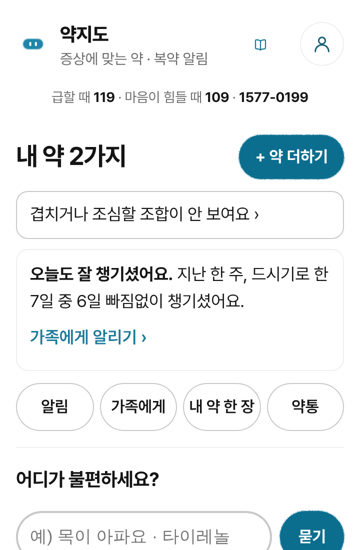
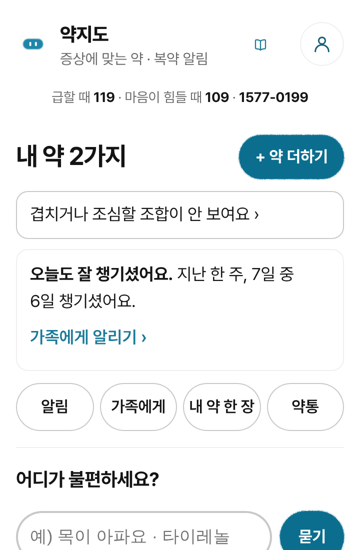
약지도 「내 약」 마음 줄 말 고침(「빠짐없이」는 다 챙긴 주만 · 그 밖엔 「7일 중 6일 챙기셨어요」) · 간단히 보기 카드: 큰 글씨·내 약을 쉬운 갈래 이름과(해열진통제·위산·속쓰림약)·단추 둘씩 크게
Claude-Session: https://claude.ai/code/session_01EnA5kC7cG7NGAyuaz7gY2Z

Changed region(s): [[0.0611, 0.5255, 0.6722, 0.5873], [0.7028, 0.4636, 0.9167, 0.5255]]

diff --git a/docs/yakjido/srv.js b/docs/yakjido/srv.js
@@ -3650,12 +3650,14 @@ window.언어칸 = function () {
     try {
       var tk = takenSet(), rows = []; items.forEach(function (d) { schedOf(d.id, d).forEach(function (t) { rows.push(d.id + '@' + t); }); });
       var 다 = rows.length && rows.every(function (k) { return tk.indexOf(k) >= 0 || isSkipped(k); });
-      var w = adherence(7), 주 = w && w.days >= 2 ? '지난 한 주, 드시기로 한 ' + w.days + '일 중 ' + w.full + '일 빠짐없이 챙기셨어요.' : '';
+      var w = adherence(7), 주 = w && w.days >= 2 ? (w.full === w.days ? '지난 한 주, 드시기로 한 ' + w.days + '일을 빠짐없이 챙기셨어요.' : '지난 한 주, ' + w.days + '일 중 ' + w.full + '일 챙기셨어요.') : '';   /* 11-17 Main — 「빠짐없이」는 전부일 때만 */
       if (다) 마음 = '<div class="job-heart"><p><b>오늘도 잘 챙기셨어요.</b>' + (주 ? ' ' + 주 : '') + '</p><button type="button" class="link" onclick="shareOut({title:\'약지도\',text:\'오늘 약을 다 챙겨 먹었어요. — 약지도\'})">가족에게 알리기 ›</button></div>';
       else if (n >= 5) 마음 = '<div class="job-heart"><p>약이 많으면 누구나 헷갈려요.</p><a href="#/bag">한 장으로 정리해 드릴게요 ›</a></div>';
       else if (주) 마음 = '<div class="job-heart"><p>' + 주 + '</p></div>';
     } catch (e) {}
-    return '<section class="job-box"><div class="job-h"><h1>내 약 ' + n + '가지</h1><button type="button" class="btn" data-ink="solid" onclick="go(\'/together\')">+ 약 더하기</button></div>' + 판 + (마음.indexOf('오늘도 잘 챙기셨어요') >= 0 ? '' : 다음약()) + 마음 +
+    /* 11-17 Main — 간단히 보기: 큰 글씨 · 내 약을 쉬운 갈래 이름과 함께(사진 없는 줄 목록) · 단추 둘씩 크게. 겹침 판정·마음 한 줄은 같다 */
+    var sv = typeof svOn === 'function' && svOn(), 목록 = sv ? '<ul class="job-list">' + items.slice(0, 6).map(function (d) { var dk = d.class || ((typeof drug === 'function' && drug(d.id)) || {}).class, c0 = (D.classes || []).filter(function (c) { return c.id === dk; })[0], g = d.quick ? d.quick.g.n : c0 ? String(c0.name).split('(')[0].trim() : ''; return '<li><b>' + esc(짧은이름(d.name)) + '</b>' + (g ? '<span>' + esc(g) + '</span>' : '') + '</li>'; }).join('') + (items.length > 6 ? '<li><a href="#/me?t=meds">' + (items.length - 6) + '가지 더 ›</a></li>' : '') + '</ul>' : '';
+    return '<section class="job-box' + (sv ? ' sv' : '') + '"><div class="job-h"><h1>내 약 ' + n + '가지</h1><button type="button" class="btn" data-ink="solid" onclick="go(\'/together\')">+ 약 더하기</button></div>' + 판 + 목록 + (마음.indexOf('오늘도 잘 챙기셨어요') >= 0 ? '' : 다음약()) + 마음 +
       '<div class="job-row"><a href="#/notify">알림</a><a href="#/send">가족에게</a><a href="#/bag">내 약 한 장</a><a href="#/me?t=meds">약통</a></div></section>';
   }
   window.잉크홈 = function () {

diff --git a/yakjido/srv.js b/yakjido/srv.js
@@ -3650,12 +3650,14 @@ window.언어칸 = function () {
     try {
       var tk = takenSet(), rows = []; items.forEach(function (d) { schedOf(d.id, d).forEach(function (t) { rows.push(d.id + '@' + t); }); });
       var 다 = rows.length && rows.every(function (k) { return tk.indexOf(k) >= 0 || isSkipped(k); });
-      var w = adherence(7), 주 = w && w.days >= 2 ? '지난 한 주, 드시기로 한 ' + w.days + '일 중 ' + w.full + '일 빠짐없이 챙기셨어요.' : '';
+      var w = adherence(7), 주 = w && w.days >= 2 ? (w.full === w.days ? '지난 한 주, 드시기로 한 ' + w.days + '일을 빠짐없이 챙기셨어요.' : '지난 한 주, ' + w.days + '일 중 ' + w.full + '일 챙기셨어요.') : '';   /* 11-17 Main — 「빠짐없이」는 전부일 때만 */
       if (다) 마음 = '<div class="job-heart"><p><b>오늘도 잘 챙기셨어요.</b>' + (주 ? ' ' + 주 : '') + '</p><button type="button" class="link" onclick="shareOut({title:\'약지도\',text:\'오늘 약을 다 챙겨 먹었어요. — 약지도\'})">가족에게 알리기 ›</button></div>';
       else if (n >= 5) 마음 = '<div class="job-heart"><p>약이 많으면 누구나 헷갈려요.</p><a href="#/bag">한 장으로 정리해 드릴게요 ›</a></div>';
       else if (주) 마음 = '<div class="job-heart"><p>' + 주 + '</p></div>';
     } catch (e) {}
-    return '<section class="job-box"><div class="job-h"><h1>내 약 ' + n + '가지</h1><button type="button" class="btn" data-ink="solid" onclick="go(\'/together\')">+ 약 더하기</button></div>' + 판 + (마음.indexOf('오늘도 잘 챙기셨어요') >= 0 ? '' : 다음약()) + 마음 +
+    /* 11-17 Main — 간단히 보기: 큰 글씨 · 내 약을 쉬운 갈래 이름과 함께(사진 없는 줄 목록) · 단추 둘씩 크게. 겹침 판정·마음 한 줄은 같다 */
+    var sv = typeof svOn === 'function' && svOn(), 목록 = sv ? '<ul class="job-list">' + items.slice(0, 6).map(function (d) { var dk = d.class || ((typeof drug === 'function' && drug(d.id)) || {}).class, c0 = (D.classes || []).filter(function (c) { return c.id === dk; })[0], g = d.quick ? d.quick.g.n : c0 ? String(c0.name).split('(')[0].trim() : ''; return '<li><b>' + esc(짧은이름(d.name)) + '</b>' + (g ? '<span>' + esc(g) + '</span>' : '') + '</li>'; }).join('') + (items.length > 6 ? '<li><a href="#/me?t=meds">' + (items.length - 6) + '가지 더 ›</a></li>' : '') + '</ul>' : '';
+    return '<section class="job-box' + (sv ? ' sv' : '') + '"><div class="job-h"><h1>내 약 ' + n + '가지</h1><button type="button" class="btn" data-ink="solid" onclick="go(\'/together\')">+ 약 더하기</button></div>' + 판 + 목록 + (마음.indexOf('오늘도 잘 챙기셨어요') >= 0 ? '' : 다음약()) + 마음 +
       '<div class="job-row"><a href="#/notify">알림</a><a href="#/send">가족에게</a><a href="#/bag">내 약 한 장</a><a href="#/me?t=meds">약통</a></div></section>';
   }
   window.잉크홈 = function () {

diff --git a/docs/yakjido/ink.css b/docs/yakjido/ink.css
@@ -242,3 +242,11 @@ html.ink.job .job-ask{font-size:1.125rem;margin:20px 0 8px}
 html.ink.job .job-heart{margin:10px 0 2px;padding:12px 14px;border-radius:12px;background:var(--surface);box-shadow:inset 0 0 0 1px var(--hairline)!important}
 html.ink.job .job-heart p{margin:0;line-height:1.6}
 html.ink.job .job-heart a,html.ink.job .job-heart .link{display:inline-flex;align-items:center;min-height:44px;color:var(--primary);text-decoration:none;font-weight:600;background:none;border:0;padding:0;cursor:pointer}
+html.ink.job .job-box.sv .job-h h1{font-size:1.875rem}
+html.ink.job .job-box.sv .job-verdict,html.ink.job .job-box.sv .job-heart p{font-size:1.1875rem}
+html.ink.job .job-box.sv .job-row{grid-template-columns:repeat(2,1fr);gap:10px}
+html.ink.job .job-box.sv .job-row a{min-height:56px;font-size:1.125rem}
+html.ink.job .job-list{list-style:none;margin:12px 0 4px;padding:0}
+html.ink.job .job-list li{display:flex;align-items:baseline;justify-content:space-between;gap:12px;min-height:48px;padding:10px 2px;border-bottom:1px solid var(--hairline);font-size:1.1875rem}
+html.ink.job .job-list li span{color:var(--muted);font-size:1rem;text-align:right}
+html.ink.job .job-list li a{color:var(--primary);text-decoration:none}

diff --git a/yakjido/ink.css b/yakjido/ink.css
@@ -242,3 +242,11 @@ html.ink.job .job-ask{font-size:1.125rem;margin:20px 0 8px}
 html.ink.job .job-heart{margin:10px 0 2px;padding:12px 14px;border-radius:12px;background:var(--surface);box-shadow:inset 0 0 0 1px var(--hairline)!important}
 html.ink.job .job-heart p{margin:0;line-height:1.6}
 html.ink.job .job-heart a,html.ink.job .job-heart .link{display:inline-flex;align-items:center;min-height:44px;color:var(--primary);text-decoration:none;font-weight:600;background:none;border:0;padding:0;cursor:pointer}
+html.ink.job .job-box.sv .job-h h1{font-size:1.875rem}
+html.ink.job .job-box.sv .job-verdict,html.ink.job .job-box.sv .job-heart p{font-size:1.1875rem}
+html.ink.job .job-box.sv .job-row{grid-template-columns:repeat(2,1fr);gap:10px}
+html.ink.job .job-box.sv .job-row a{min-height:56px;font-size:1.125rem}
+html.ink.job .job-list{list-style:none;margin:12px 0 4px;padding:0}
+html.ink.job .job-list li{display:flex;align-items:baseline;justify-content:space-between;gap:12px;min-height:48px;padding:10px 2px;border-bottom:1px solid var(--hairline);font-size:1.1875rem}
+html.ink.job .job-list li span{color:var(--muted);font-size:1rem;text-align:right}
+html.ink.job .job-list li a{color:var(--primary);text-decoration:none}

diff --git a/docs/yakjido/sw.js b/docs/yakjido/sw.js
@@ -9,7 +9,7 @@
                        판이 같으면 캐시 그대로, 판이 바뀌면 새로 받아 넣고 옛 판은 지운다(prune).
    판 없는 옛 주소는 «캐시 먼저» — 한 번 받은 것은 즉시 열리고, 뒤에서 조용히 새로 받아 둔다.
    인터넷이 안 되면 어느 캐시에든 있는 사본을 준다(5-01 — 첫 방문 뒤 비행기 모드에서 본문이 안 뜨던 것). */
-const CACHE = 'yakjido-2026-11-17T20:07-3acb25d8';
+const CACHE = 'yakjido-2026-11-17T20:15-56a34479';
 const DATA = 'yakjido-data-v1';
 /* 기내 모드·바깥 파일 0(10-27) — 글꼴(fonts/)·로그인 프로그램(vendor/)은 배포 묶음 안. 판이 박힌 꾸러미라 내용이 안 바뀌니 «캐시 먼저», 앱 판이 바뀌어도 지우지 않는다(EXT).
    바깥 주소는 하나도 담지 않는다 — 서버 응답(supabase REST)·날씨는 그대로 지나간다(09-22 원칙) */

diff --git a/docs/yakjido/index.html b/docs/yakjido/index.html
@@ -1810,7 +1810,7 @@ html:not(.ink) .rf-none{display:none}</style>
 <script>
 window.__YAKJIDO_OK__ = true;
 const D = JSON.parse(document.getElementById('data').textContent || '{}');
-const BUILD = '2026-11-17 20:07';
+const BUILD = '2026-11-17 20:15';
 const DATAV = '74e855bac8'.indexOf('__') === 0 ? BUILD : '74e855bac8';
 const BRANDMARK = (typeof window !== 'undefined' && window.__BRANDMARK__) || 'icon-192.png';
 let CORE = 0, CORE_P = null;
